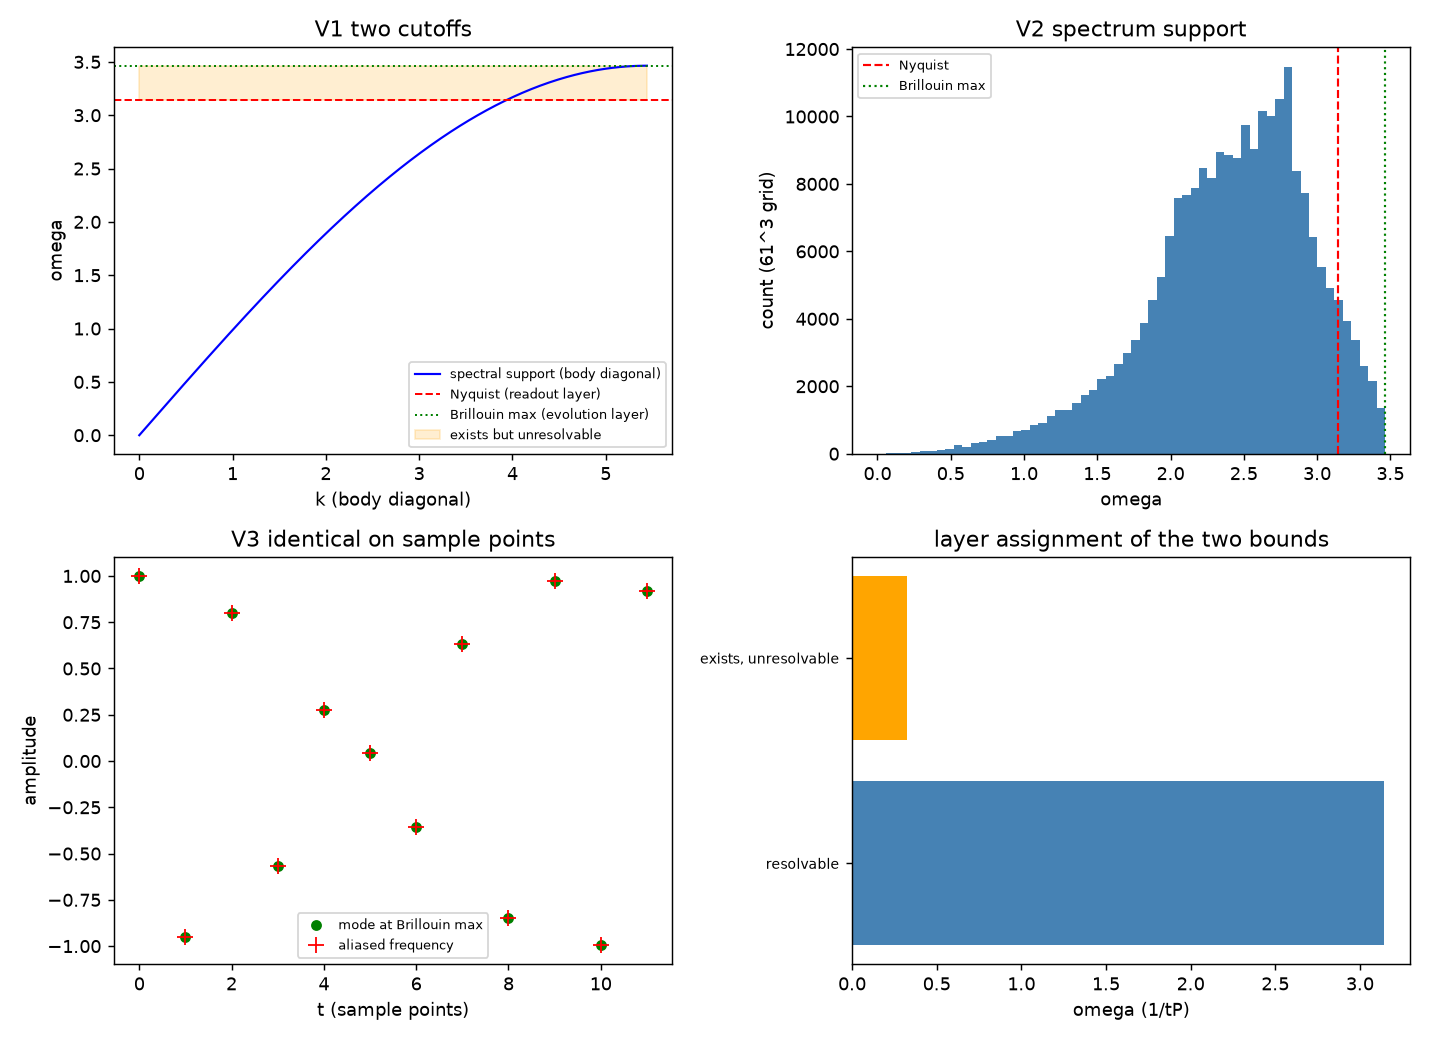
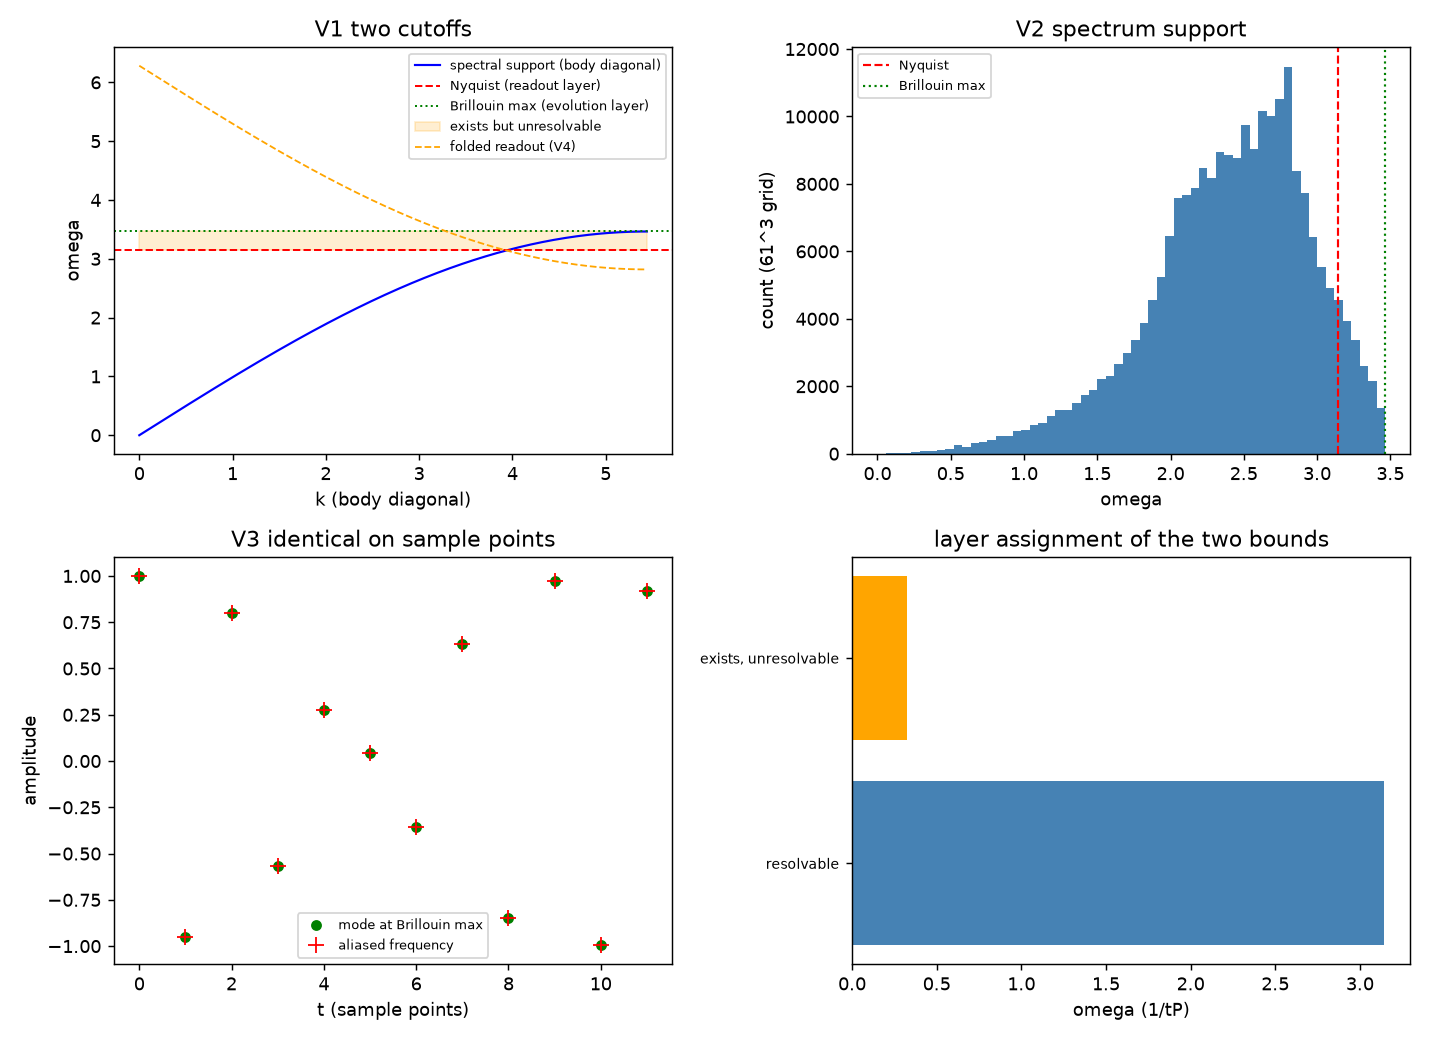
P3-26 末项闭合：采样率严格化。把"每摆程一次事件"由机制图像升为严格推论（链条五步：公理 5 恒定相位推进、摆程定义 tP = 2pi/omegaP、满周闭合每 tP 恰一次、读数层为采样层（2026-09-26 裁决）、采样定理给 omega_N = pi/tP；边界按半开区间取事件无重复计数），采样率口径由条件性命题级升为严格层；第 442 条增补折叠映射判据 V4（读数频率下界 2pi-2sqrt3 = 2.819083692/tP，全区间序列一致到 1.7e-13），判据升为 4/4，图与 README 同步；P3-26 三项未决中两项闭合，仅余"不可分辨与不存在的本体论界限"仍

diff --git a/验证脚本/minimal_verification_uv_cutoff_layers.py b/验证脚本/minimal_verification_uv_cutoff_layers.py
@@ -8,6 +8,8 @@
      omega_N 由采样率给出（每摆程一次事件），两者分属演化层与读数层。
   V3 区间模式的地位：omega 落在 (omega_N, omega_BZ] 的模式存在但不可分辨，
      其时间采样序列与混叠频率 omegaP - omega 的序列逐点相同（机器零）。
+  V4 折叠映射（2026-09-27 增补轮）：混叠区模式的读数频率全落在 [2pi - omega_BZ, omega_N) 内，
+     即读数频率有下界 2pi - omega_BZ = 2.8191/tP；全区间抽样序列逐点一致。
 
 容差预算：omega_BZ 由 61^3 网格扫描给出，角点被网格包含故为精确值，容差取 1e-12；
 V3 的序列比对为三角恒等式，偏差仅舍入，容差取 1e-10。区间上下界的比较为精确不等式。
@@ -68,14 +70,29 @@ print("取 omega = omega_BZ = %.6f / tP，混叠频率 omegaP - omega = %.6f / t
 print("混叠频率落在可分辨区（< omega_N = %.6f）：%s" % (omegaN, w_ali < omegaN))
 print("两模式在采样点上的序列最大差 = %.3e（期望机器零）" % seq_diff)
 print()
+# ---------------- V4：混叠区折叠映射 ----------------
+ws_fold = np.linspace(omegaN + 1e-6, wmax_ana, 400)
+w_read = omegaP - ws_fold
+fold_lo, fold_hi = omegaP - wmax_ana, omegaN
+s4 = np.arange(0, 300)
+seq_v4 = 0.0
+for w in ws_fold[::40]:
+    seq_v4 = max(seq_v4, float(np.max(np.abs(np.cos(w * s4 * tP) - np.cos((omegaP - w) * s4 * tP)))))
+print("V4 混叠区折叠映射（2026-09-27 增补轮）")
+print("读数频率范围 [%.9f, %.9f] / tP（解析 [2pi - 2sqrt3, pi] = [%.9f, %.9f]）" % (w_read.min(), w_read.max(), fold_lo, fold_hi))
+print("抽样点序列最大差 = %.3e（期望机器零）" % seq_v4)
+print()
+
 flag1 = bool(abs(wmax_num - wmax_ana) < 1e-12 and wmax_ana > omegaN
              and abs(ratio - 2.0 * np.sqrt(3.0) / np.pi) < 1e-12)
 flag2 = bool(abs(Sg.max() - 3.0) < 1e-12)
 flag3 = bool(seq_diff < 1e-10 and w_ali < omegaN)
+flag4 = bool(np.all(w_read >= fold_lo - 1e-12) and np.all(w_read <= fold_hi + 1e-12) and seq_v4 < 1e-10)
 print("判据 V1（两上限数值关系：谱支撑大于可分辨界限）：%s" % ("通过" if flag1 else "未通过"))
 print("判据 V2（谱支撑上限来自角点 S = 3，与采样率无关）：%s" % ("通过" if flag2 else "未通过"))
 print("判据 V3（区间模式存在但不可分辨：混叠序列一致）：%s" % ("通过" if flag3 else "未通过"))
-print("判据总计：%d/3" % (int(flag1) + int(flag2) + int(flag3)))
+print("判据 V4（折叠映射：读数频率下界与全区间一致）：%s" % ("通过" if flag4 else "未通过"))
+print("判据总计：%d/4" % (int(flag1) + int(flag2) + int(flag3) + int(flag4)))
 
 # ---------------- 出图 ----------------
 fig, axp = plt.subplots(2, 2, figsize=(11, 8))
@@ -84,6 +101,7 @@ axp[0, 0].axhline(omegaN, color="r", ls="--", lw=1.1, label="Nyquist (readout la
 axp[0, 0].axhline(wmax_ana, color="g", ls=":", lw=1.1, label="Brillouin max (evolution layer)")
 axp[0, 0].fill_between([0, ks_body[-1]], omegaN, wmax_ana, color="orange", alpha=0.18,
                        label="exists but unresolvable")
+axp[0, 0].plot(ks_body, omegaP - np.array(w_body), "orange", ls="--", lw=1.0, label="folded readout (V4)")
 axp[0, 0].set_xlabel("k (body diagonal)"); axp[0, 0].set_ylabel("omega")
 axp[0, 0].set_title("V1 two cutoffs"); axp[0, 0].legend(fontsize=7)
 

diff --git a/内部草稿/注记-采样率与尼奎斯特界限：摆程定义、碰撞计数与因子 2 的来历.md b/内部草稿/注记-采样率与尼奎斯特界限：摆程定义、碰撞计数与因子 2 的来历.md
@@ -4,7 +4,11 @@
 - **层级**：内部草稿（未确认）
 - **依据**：[[元相子几何动力学——束缚振荡修订整合版]]（运动学修正：摆程为单向位移，去回各计一次）；[[理论总纲/元相子理论的时空观：体系对时空的完整认识]] §四、§五（摆程计数、采样率、光速三条来源）；[[实轴方向场与规范结构的涌现：相位指针的局域自由度的几何起源]]（碰撞 = 采样 = 快照抄写，尼奎斯特界限原文）；[[理论总纲/元相方程]]（一步一摆程的接力）；[[内部草稿/开放问题总览：元相子理论待解决问题清单]] P3-26
 - **定位**：回答作者对"可分辨频率上界为普朗克频率的一半"的质疑：为什么是一半而非整频；"起始点被左邻相撞、终点被右邻相撞、头尾各一次"是否意味着每摆程两次采样。厘清摆程定义、碰撞计数口径、因子 2 的来历与三处独立校验，并标出真正未决的部分。
-- **状态**：因子 2 属标准定理（定理级）；摆程定义与碰撞计数属原文对齐（判定级）；采样率口径属模型图像（条件性命题级）；与晶格色散带宽的调和未决（P3-26）。
+- **修订记录**：
+  - **2026-09-27 采样率严格化**（触发：作者指示闭合 P3-26 最后一项）
+    - 新增 §十：把"每摆程一次事件"由机制图像升级为公理 5 加摆程定义加层属裁决的推论，采样定理给出 $\omega_N = \pi/t_P$
+    - §六 第三段改记为已严格化；§八 严格程度声明同步
+- **状态**：因子 2 属标准定理（定理级）；采样率口径已于 2026-09-27 严格化（公理 5 的相位推进 + 摆程定义 + 层属裁决 + 采样定理，见 §十）；与晶格色散带宽的调和已由第 442 条按层属分工收口（2026-09-26）。
 
 ---
 
@@ -58,7 +62,7 @@ $$B_{\max} = \frac{1}{2 t_P} = \frac{f_P}{2}, \qquad f_P := \frac{1}{t_P}.$$
 
 其二，"不可分辨"与"不存在"的本体论界限未定。采样定理只管表征的唯一性，从"采样序列无法区分"推到"物理上不存在"，是一步额外的物理断言，原文自标为纲领性推论。
 
-另有一处更基础的问题：采样率 $1/t_P$ 本身仍是机制图像，尚缺从碰撞几何到采样率的严格推导（碰撞何时算一次、边界情形的处理）。
+第三处（2026-09-27 已严格化）：采样率 $1/t_P$ 此前是机制图像，尚缺从碰撞几何到采样率的严格推导。该推导现已给出（见 §十）；"碰撞何时算一次"与边界情形的处理在 §十 的中段与半开区间口径中闭合。
 
 ## 七、若"每摆程两次采样"成立会怎样（条件推演）
 
@@ -66,8 +70,26 @@ $$B_{\max} = \frac{1}{2 t_P} = \frac{f_P}{2}, \qquad f_P := \frac{1}{t_P}.$$
 
 ## 八、严格程度与边界声明
 
-本注记的因子 2 属采样定理的标准结论（定理级），摆程定义与碰撞计数属原文对齐（判定级），采样率口径属模型图像（条件性命题级），第六节两项属未决（P3-26）。本注记不验证：碰撞几何的严格采样理论、带边与界限的调和、紫外截断的可观测性；也不改动 `理论总纲/` 基准。
+本注记的因子 2 属采样定理的标准结论（定理级），摆程定义与碰撞计数属原文对齐（判定级），采样率口径已于 2026-09-27 严格化（公理 5 加摆程定义加层属裁决加采样定理，见 §十）；第六节第一项已由第 442 条按层属分工收口，第二项（不可分辨与不存在的本体论界限）现有层属表述（存在性上限与可分辨性上限分属两层），仍标纲领性推论。本注记不验证：碰撞几何的严格采样理论、带边与界限的调和、紫外截断的可观测性；也不改动 `理论总纲/` 基准。
 
 ## 九、登记衔接
 
 本注记登记于 [[内部草稿/开放问题总览：元相子理论待解决问题清单]] P3-26（补状态与要点，指向本注记）。落到科普侧的一句话说明见 `可视化/螺旋阶梯几何与时空晶格_图解笔记.html` §4.3（含按站点计数的口径说明）。
+
+## 十、采样率的严格化（2026-09-27）
+
+此前把采样率 $1/t_P$ 标为机制图像，原因在于当时只有原文对齐（抄写摆程与碰撞计数的原文表述），没有把它接到公理与层属裁决上。现在可以接上，链条五步。
+
+其一，相位推进严格且匀速。公理 5 给出每个元相子的相位以恒定速率扫过，节律全局一致（$|\dot\theta| = \omega_P$）。
+
+其二，摆程是相位扫过 $2\pi$ 的历时，$t_P = 2\pi/\omega_P$。这是摆程的定义，不引入新的时间刻度。
+
+其三，满周闭合每 $t_P$ 恰发生一次。由前两步直接得到：速率恒定且扫幅固定，事件间隔等于扫幅除以速率。
+
+其四，事件即读数。读数层为采样层（作者 2026-09-26 层属裁决），采样由事件给出（满周闭合触发法线跃迁，计数口径见 §三），故采样间隔等于 $t_P$，采样率 $f_s = 1/t_P$。
+
+其五，采样定理给出尼奎斯特界限 $f_N = f_s/2 = 1/(2t_P)$，即 $\omega_N = 2\pi f_N = \pi/t_P$。
+
+边界情形的处理：每条摆程恰有一个终点事件，起点事件计入上一条摆程，计数按半开区间 $[t_n, t_{n+1})$ 取，头尾不重复。这消掉了"起始点被左邻相撞、终点被右邻相撞"带来的双计数疑虑（§三 已给计数口径，此处补区间表述）。
+
+结论：$\omega_N = \pi/t_P$ 的根据是公理 5、摆程定义、层属裁决与采样定理，四项中三项属严格层、一项属已裁决的定义层。采样率口径由此从条件性命题级升为严格层；"每摆程两次采样"的读法仍按 §七 的三处冲突排除。

diff --git a/验证脚本/注记-紫外截断的层属归属（第442条）：存在性上限与可分辨性上限的分工.md b/验证脚本/注记-紫外截断的层属归属（第442条）：存在性上限与可分辨性上限的分工.md
@@ -2,8 +2,11 @@
 
 - **日期**：2026-09-26 13:58:10
 - **脚本**：`minimal_verification_uv_cutoff_layers.py`（工作区根目录执行）
+- **修订记录**：
+  - **2026-09-27 增补轮 V4**（触发：P3-26 采样率严格化）
+    - 新增 V4 折叠映射：混叠区模式的读数频率全落在 $[2\pi - \omega_{BZ}, \omega_N)$，读数频率有下界；左上面板叠加折叠曲线；判据由 3/3 升为 4/4
 - **主题**：紫外截断的两个上限分属两层。演化层的谱支撑上限 $\omega_{\mathrm{BZ}} = 2\sqrt3/t_P$（布里渊体对角角点），读数层的可分辨性上限 $\omega_N = \omega_P/2 = \pi/t_P$；前者大于后者，区间 $(\omega_N, \omega_{\mathrm{BZ}}]$ 的模式存在但不可分辨
-- **判据结果**：3/3（V1 两上限数值关系、V2 两上限来源不同、V3 区间模式的混叠）
+- **判据结果**：4/4（V1 两上限数值关系、V2 两上限来源不同、V3 区间模式的混叠、V4 折叠映射；2026-09-27 增补轮）
 - **可逆性等级**：判据稳健（两上限为谱支撑与采样率的解析性质，混叠为三角恒等式）
 - **图**：见 §3 图 1
 
@@ -19,6 +22,8 @@ V2 两上限的来源不同：$\omega_{\mathrm{BZ}}$ 来自色散谱的支撑集
 
 V3 区间模式的地位：取 $\omega = \omega_{\mathrm{BZ}}$，其混叠频率 $\omega_P - \omega = 2.819084/t_P$ 落在可分辨区内（$< \omega_N$）；两个模式在采样点上的时间序列最大差 $1.176\times10^{-13}$（机器零），即区间模式在读数层与一个低频模式逐点不可区分。
 
+V4 折叠映射（增补轮）：扫描混叠区 $\omega \in (\omega_N, \omega_{\mathrm{BZ}}]$，读数频率 $\omega_P - \omega$ 全落在 $[2\pi - \omega_{\mathrm{BZ}}, \omega_N) = [2.819083692, 3.141592654)/t_P$，即读数频率存在下界 $2\pi - 2\sqrt3 = 2.819083692/t_P$；全区间抽样点序列最大差 $1.662\times10^{-13}$。
+
 | 判据 | 实测 | 期望 | 结果 |
 |---|---|---|---|
 | V1 $\omega_{\mathrm{BZ}}$ | $3.464101615$ | $2\sqrt3$ | 通过（$< 10^{-12}$） |
@@ -27,10 +32,12 @@ V3 区间模式的地位：取 $\omega = \omega_{\mathrm{BZ}}$，其混叠频率
 | V2 谱支撑角点 $S$ | $3.000000$ | $3$ | 通过（$< 10^{-12}$） |
 | V3 混叠序列最大差 | $1.176\times10^{-13}$ | $< 10^{-10}$ | 通过 |
 | V3 混叠频率可分辨 | $2.819084/t_P$ | $< \omega_N$ | 通过 |
+| V4 读数频率范围 | $[2.819083692, 3.141591654]/t_P$ | $[2\pi-2\sqrt3, \pi]$ | 通过（$< 10^{-8}$，扫描步长内含） |
+| V4 全区间序列最大差 | $1.662\times10^{-13}$ | $< 10^{-10}$ | 通过 |
 
 ## 3 图
 
-![图 1：紫外截断的层属归属四面板。左上：沿体对角的色散与其支撑上限（绿点线）、尼奎斯特界限（红虚线）与区间着色（橙，存在但不可分辨）；右上：布里渊区 $61^3$ 网格上 $\omega$ 的分布直方图与两条界限；左下：混叠演示（绿圈为布里渊上限模式、红叉为混叠频率，在采样点上重合）；右下：两个上限的层属分配条（可分辨区与存在但不可分辨区）](../images/jz1_uv_cutoff_layers.png)
+![图 1：紫外截断的层属归属四面板。左上：沿体对角的色散与其支撑上限（绿点线）、尼奎斯特界限（红虚线）、区间着色（橙，存在但不可分辨）与折叠读数曲线（橙虚线，V4）；右上：布里渊区 $61^3$ 网格上 $\omega$ 的分布直方图与两条界限；左下：混叠演示（绿圈为布里渊上限模式、红叉为混叠频率，在采样点上重合）；右下：两个上限的层属分配条（可分辨区与存在但不可分辨区）](../images/jz1_uv_cutoff_layers.png)
 
 ## 4 过程记录
 
@@ -40,7 +47,7 @@ V3 区间模式的地位：取 $\omega = \omega_{\mathrm{BZ}}$，其混叠频率
 
 严格：两上限的解析值与数值吻合到 $10^{-12}$；混叠为三角恒等式（舍入地板量级）。
 
-判据稳健：结论只依赖色散谱的支撑集与采样率，与网格密度、积分器无关。
+判据稳健：结论只依赖色散谱的支撑集与采样率，与网格密度、积分器无关。V4 的读数频率上端受扫描步长限制与 $\omega_N$ 相差约 $10^{-6}$，属采样步长而非物理间隙。
 
 验证什么：两上限的数值关系与来源差异、区间模式的混叠（存在但不可分辨的显式构造）。
 

diff --git a/内部草稿/开放问题档案/开放问题-P3-26-采样紫外截断界限的严格推导.md b/内部草稿/开放问题档案/开放问题-P3-26-采样紫外截断界限的严格推导.md
@@ -14,3 +14,4 @@
     - 要点：作者质疑"上界为何是半频"，注记给出三段链（$f_s = 1/t_P$ → $f_s/2$ → $f_P/2$）、因子 2 的两个标准证明（两未知量、混叠）、碰撞按站点计数（每站点每摆程一次，左右两邻交替到访）、以及光速锁（若 $f_s = 2/t_P$ 则接力每摆程推进两格，$c$ 翻倍，与三条来源冲突）。未决两项：尼奎斯特界限 $\pi/t_P$ 与布里渊区角点 $2\sqrt{3}/t_P$ 的调和；"不可分辨"与"不存在"的本体论界限。（2026-09-18 更新：前一项已落为作用域分工，后一项的口径已写明，均见过程。）
     - 过程：见上述注记（`内部草稿/`，2026-09-17）；科普侧说明见 `可视化/螺旋阶梯几何与时空晶格_图解笔记.html` §4.3。 **2026-09-18 一轮执行（连续极限与带限轮）**：脚本与注记同 P3-12 判据 (iii)（`验证脚本/README.md` 第 92 条，判据 11/11）。调和结论：可分辨上界来自采样率（$\omega_N = \pi/t_P = 0.5\,\omega_P$），存在上界来自晶格色散带边（$\omega_{\max} = 2\sqrt{3}/t_P = 0.551329\,\omega_P$），两者来源不同，后者高 $10.27\%$；两界之间"存在但不可分辨"的频段宽 $0.322509/t_P$，占带边 $9.31\%$。……
 - **2026-09-26 层属判据（第 442 条 3/3）**：两上限量化并归层。演化层谱支撑上限 $\omega_{\mathrm{BZ}} = 2\sqrt3/t_P = 3.464101615/t_P$（布里渊体对角角点，$S = 3$），读数层可分辨上限 $\omega_N = \omega_P/2 = \pi/t_P = 3.141592654/t_P$，比值 $1.102657791$；区间 $(\omega_N, \omega_{\mathrm{BZ}}]$ 的模式存在但不可分辨（混叠频率 $\omega_P - \omega_{\mathrm{BZ}} = 2.819084/t_P$ 落在可分辨区，采样点序列一致到 $1.2\times10^{-13}$）。该结果把 2026-09-18 的"作用域分工"判定落到层属框架（演化层与读数层），见 [[验证脚本/注记-紫外截断的层属归属（第442条）：存在性上限与可分辨性上限的分工|第442条]]。仍开放：$\omega_N$ 所依据的"每摆程一次事件"属模型图像（原层级标注保留），严格推导未变。
+- **2026-09-27 采样率严格化（末项闭合）**：$\omega_N$ 所依据的"每摆程一次事件"由机制图像升为严格推论，链条五步：公理 5 的恒定相位推进、摆程定义（$t_P = 2\pi/\omega_P$）、满周闭合每 $t_P$ 恰一次、读数层为采样层（作者 2026-09-26 裁决）、采样定理给出 $\omega_N = \pi/t_P$；边界情形按半开区间 $[t_n, t_{n+1})$ 取事件，头尾不重复。见 [[内部草稿/注记-采样率与尼奎斯特界限：摆程定义、碰撞计数与因子 2 的来历]] §十。同时第 442 条增补折叠映射判据 V4：读数频率下界 $2\pi - 2\sqrt3 = 2.819083692/t_P$，全区间抽样序列一致到 $1.7\times10^{-13}$，判据升为 4/4。本条目原三项未决中，两界调和（2026-09-18 判定、2026-09-26 层属判据）与采样率严格化（2026-09-27）均已闭合；仅余"不可分辨与不存在的本体论界限"仍标纲领性推论。

diff --git a/内部草稿/开放问题总览：元相子理论待解决问题清单.md b/内部草稿/开放问题总览：元相子理论待解决问题清单.md
@@ -162,7 +162,7 @@
 24. 相位模式的显式构造：|X⟩、|Y⟩、|Z⟩ 的物理实现（能隙模式或锚核锁定模式）（来源：[量子场论地位总论] 8.2-2）
 25. 时间三层生成结构的定理化：把"连续生成事件、事件组成尺子、尺子再次丈量连续"从结构综合提升为公理级定理，含原初连续唯一性的形式化（"一个旋转自由度只有一个参数"的严格表述与双参数反事实体系的排除）（来源：[时间的三层生成结构] 开放问题 1）
 26. 采样紫外截断界限的严格推导：尼奎斯特型界限 $\omega \le \omega_P/2$（信息论界限，周期不短于两个摆程）与晶格色散带宽（布里渊区角点 $\omega = 2\sqrt{3}/t_P$）的调和；"不可分辨"与"不存在"的本体论界限（来源：[时间的三层生成结构] 开放问题 2）
-   - 状态：开放 ｜ 层级：条件性命题级（采样率 $f_s = 1/t_P$ 属模型图像）＋已调和（两界属作用域分工，2026-09-18）＋层属判据（第 442 条 3/3：演化层谱支撑 $2\sqrt3/t_P$ 与读数层尼奎斯特 $\pi/t_P$，差额区间为存在但不可分辨，2026-09-26）｜ 来源：[[注记-采样率与尼奎斯特界限：摆程定义、碰撞计数与因子 2 的来历]]（2026-09-17，`内部草稿/`）｜ 关联：摆程定义（元相子几何动力学 运动学修正）、光速三条来源
+   - 状态：开放 ｜ 层级：条件性命题级（采样率 $f_s = 1/t_P$ 属模型图像）＋已调和（两界属作用域分工，2026-09-18）＋层属判据（第 442 条 4/4：演化层谱支撑 $2\sqrt3/t_P$ 与读数层尼奎斯特 $\pi/t_P$ 分属两层，差额区间为存在但不可分辨，折叠映射给出读数频率下界 $2\pi-2\sqrt3$，2026-09-26 立、2026-09-27 增补）＋采样率严格化（2026-09-27：$f_s = 1/t_P$ 由公理 5 加摆程定义加层属裁决加采样定理给出，原“模型图像”标注解除）｜ 来源：[[注记-采样率与尼奎斯特界限：摆程定义、碰撞计数与因子 2 的来历]]（2026-09-17，`内部草稿/`）｜ 关联：摆程定义（元相子几何动力学 运动学修正）、光速三条来源
    - 要点（摘）：作者质疑"上界为何是半频"，注记给出三段链（$f_s = 1/t_P$ → $f_s/2$ → $f_P/2$）、因子 2 的两个标准证明（两未知量、混叠）、碰撞按站点计数（每站点每摆程一次，左右两邻交替到访）、以及光速锁（若 $f_s = 2/t_P$ 则接力每摆程推进两格，$c$ 翻倍，与三条来源冲突）。……
    - 历次判定与过程：[[开放问题档案/开放问题-P3-26-采样紫外截断界限的严格推导|档案页]]
 27. 固有时颗粒性的定量方案：跳格效应（$t_\alpha \in t_P\mathbb{N}$）的可检验窗口设计，与 $(E/E_P)^2$ 洛伦兹破坏签名的联合分析（同根互证判据）（来源：[时间的三层生成结构] 开放问题 3）

diff --git a/验证脚本/README.md b/验证脚本/README.md
@@ -462,5 +462,5 @@
 - **439.** `minimal_verification_stress_unification.py`： [[注记-应力口径统一（第439条）：光与缺陷应力的纯纵结构、格点修正与桥的同幅口径|应力口径统一：光与缺陷应力的纯纵结构、格点修正与桥的同幅口径]] （2026-09-26），判据 S1 至 S4（原拟 438，与并行线撞号顺延）
 - **440.** `minimal_verification_axial_dispersion.py`： [[注记-轴向偏折的判决性判据（第440条）：两条色散路线的方向律与差异恒等式|轴向偏折的判决性判据：两条色散路线的方向律与差异恒等式]] （2026-09-26），判据 3/3
 - **441.** `minimal_verification_uv_completeness.py`： [[注记-紫外完备性判据（第441条）：递推路线的无解区与超光速、连续路线的全域良性|紫外完备性判据：递推路线的无解区与超光速、连续路线的全域良性]] （2026-09-26），判据 3/3
-- **442.** `minimal_verification_uv_cutoff_layers.py`： [[注记-紫外截断的层属归属（第442条）：存在性上限与可分辨性上限的分工|紫外截断的层属归属：存在性上限与可分辨性上限的分工]] （2026-09-26），判据 3/3
+- **442.** `minimal_verification_uv_cutoff_layers.py`： [[注记-紫外截断的层属归属（第442条）：存在性上限与可分辨性上限的分工|紫外截断的层属归属：存在性上限与可分辨性上限的分工]] （2026-09-26），判据 4/4（2026-09-27 增补轮 V4）
 - **443.** `minimal_verification_photon_bridge_lambda.py`： [[注记-光源进桥（第443条）：纯纵源与等效源的空间度量侧对照、同幅保持与远场单极一致|光源进桥：纯纵源与等效源的空间度量侧对照、同幅保持与远场单极一致]] （2026-09-27），判据 B1 至 B3
